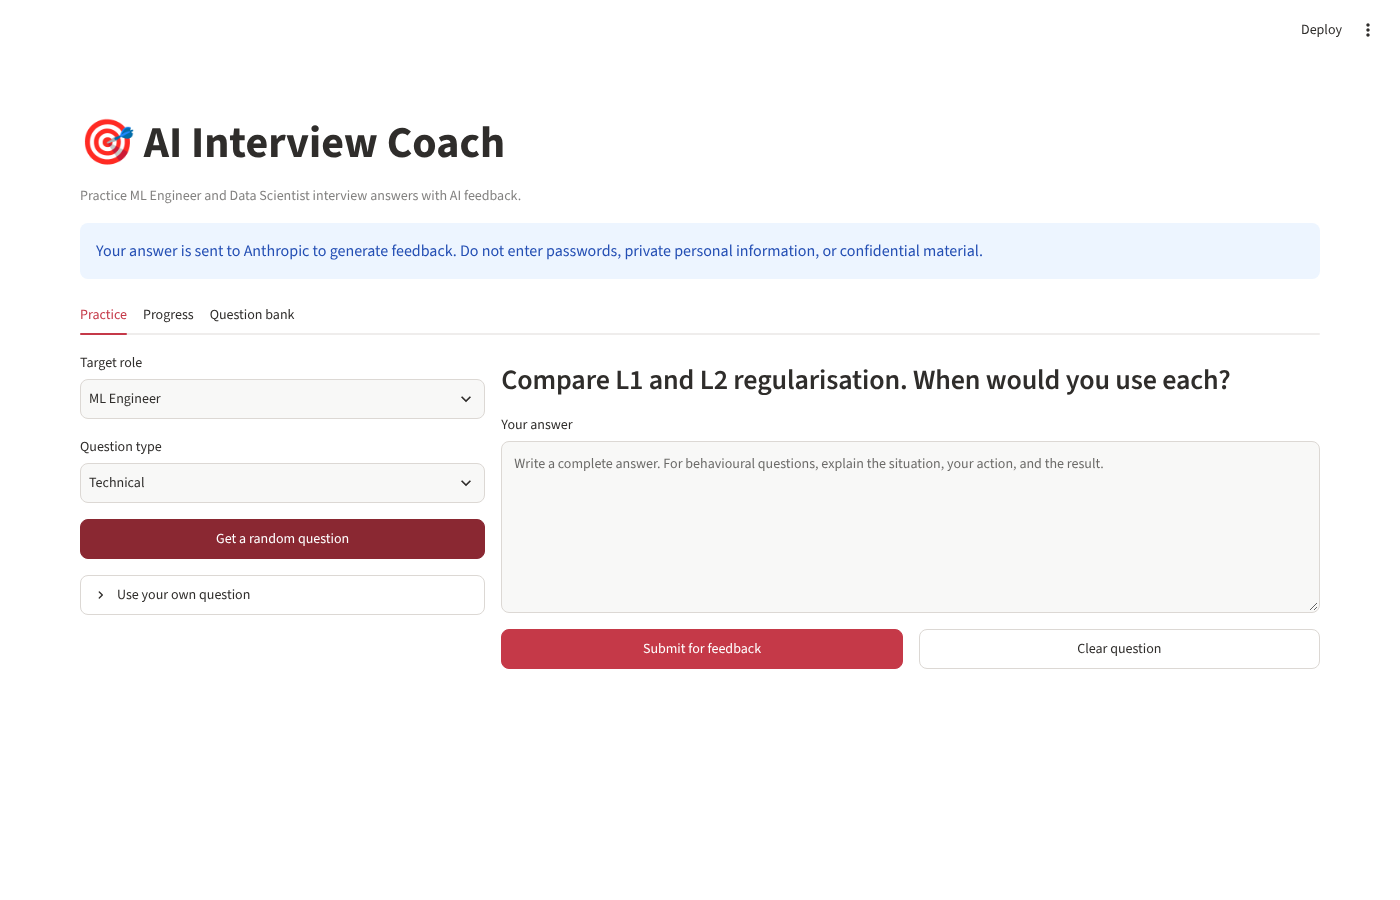
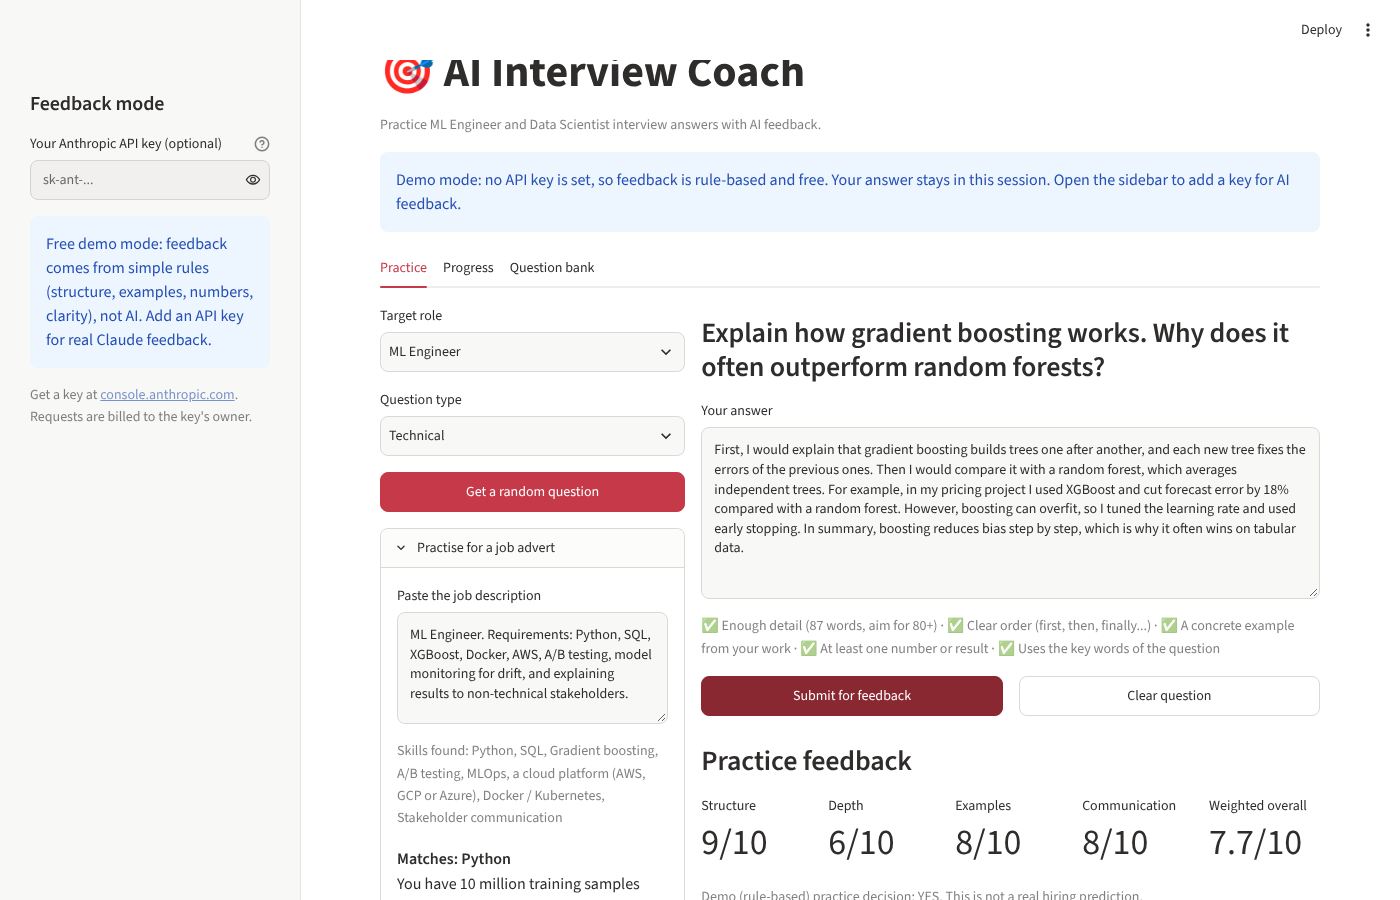
Add job-advert practice, live answer checklist and off-topic detection
- Paste a job description to get one practice question per detected skill
- Live checklist under the answer box (detail, order, example, number, relevance)
- Demo scoring caps answers that do not address the question
- 9 new tests (32 total), updated README and screenshot

Claude-Session: https://claude.ai/code/session_01MLsuxoVZSZP2yCnjYDMN5e

diff --git a/coach/demo.py b/coach/demo.py
@@ -21,6 +21,13 @@ EXAMPLE_WORDS = (
 )
 FILLER_WORDS = ("basically", "like", "kind of", "sort of", "stuff", "things", "very")
 
+STOPWORDS = set("""
+a an and are as at be been but by can could did do does for from had has have how
+i if in into is it its of on or our should so than that the their them then there
+these they this to was we were what when where which while who why will with would
+you your about after before between describe explain tell time give example would
+""".split())
+
 FOLLOW_UPS = {
     "Technical": "How would you check that this works on real production data?",
     "System Design": "What would you change if traffic grew ten times overnight?",
@@ -34,24 +41,59 @@ def _count(text, phrases):
     return sum(text.count(phrase) for phrase in phrases)
 
 
+def _stem(word):
+    return word[:5]
+
+
+def keywords(text):
+    """Meaningful words in a text, cut to a short stem so 'models' matches 'model'."""
+    words = re.findall(r"[a-z][a-z0-9\-]+", text.lower())
+    return {_stem(w) for w in words if len(w) > 2 and w not in STOPWORDS}
+
+
+def relevance(question, answer):
+    """Share of the question's key words that the answer mentions (0 to 1)."""
+    wanted = keywords(question)
+    if len(wanted) < 2:
+        return 1.0
+    return len(wanted & keywords(answer)) / len(wanted)
+
+
+def answer_signals(answer):
+    """Simple, visible signals in an answer. Used for scoring and the live checklist."""
+    text = answer.lower()
+    words = re.findall(r"[a-zA-Z0-9%£$.\-']+", answer)
+    sentences = max(1, len(re.findall(r"[.!?](\s|$)", answer)))
+    return {
+        "word_count": len(words),
+        "unique_words": len(set(w.lower() for w in words)),
+        "sentences": sentences,
+        "numbers": len(re.findall(r"\d", answer)),
+        "structure_hits": _count(text, STRUCTURE_WORDS) + answer.count("\n"),
+        "example_hits": _count(text, EXAMPLE_WORDS),
+        "filler_hits": _count(f" {text} ", tuple(f" {w} " for w in FILLER_WORDS)),
+    }
+
+
 def _clamp(value):
     return int(max(1, min(10, round(value))))
 
 
 def demo_feedback(question, answer, category=None):
     """Return validated feedback produced by simple, explainable rules."""
-    text = answer.lower()
-    words = re.findall(r"[a-zA-Z0-9%£$.\-']+", answer)
-    word_count = len(words)
-    sentences = max(1, len(re.findall(r"[.!?](\s|$)", answer)))
-    numbers = len(re.findall(r"\d", answer))
-    structure_hits = _count(text, STRUCTURE_WORDS) + answer.count("\n")
-    example_hits = _count(text, EXAMPLE_WORDS)
-    filler_hits = _count(f" {text} ", tuple(f" {w} " for w in FILLER_WORDS))
+    sig = answer_signals(answer)
+    word_count, sentences, numbers = sig["word_count"], sig["sentences"], sig["numbers"]
+    structure_hits, example_hits = sig["structure_hits"], sig["example_hits"]
+    filler_hits = sig["filler_hits"]
     avg_sentence = word_count / sentences
+    on_topic = relevance(question, answer)
 
     structure = 3 + min(structure_hits, 5) + (1 if sentences >= 3 else 0)
-    depth = 2 + min(word_count / 30, 5) + min(len(set(w.lower() for w in words)) / 60, 2)
+    depth = 2 + min(word_count / 30, 5) + min(sig["unique_words"] / 60, 2)
+    if on_topic == 0:
+        # A long answer that never touches the question should not score well.
+        depth = min(depth, 3)
+        structure = min(structure, 5)
     examples = 2 + min(example_hits * 2, 5) + min(numbers, 3)
     communication = 8 - min(filler_hits, 4) - (2 if avg_sentence > 35 else 0)
     if word_count < 40:
@@ -79,6 +121,7 @@ def demo_feedback(question, answer, category=None):
     )
 
     weakest = min(scores, key=scores.get)
+    off_topic = on_topic == 0
     gaps = {
         "structure_score": "The answer has no clear order. Use steps such as first, then, finally.",
         "depth_score": "The answer needs more depth. Explain how and why, not only what.",
@@ -105,8 +148,27 @@ def demo_feedback(question, answer, category=None):
     return validate_feedback({
         **scores,
         "what_was_good": what_was_good,
-        "critical_gap": gaps[weakest],
-        "model_answer_hint": hints[weakest],
+        "critical_gap": (
+            "The answer does not seem to address the question. Use the key terms "
+            "from the question and answer it directly first."
+            if off_topic else gaps[weakest]
+        ),
+        "model_answer_hint": (
+            "Start by repeating the core of the question in one sentence, then answer it."
+            if off_topic else hints[weakest]
+        ),
         "follow_up_question": FOLLOW_UPS.get(category, DEFAULT_FOLLOW_UP),
         "hire_decision": decision,
     })
+
+
+def answer_checklist(question, answer):
+    """Quick checks shown under the answer box before it is submitted."""
+    sig = answer_signals(answer)
+    return [
+        (f"Enough detail ({sig['word_count']} words, aim for 80+)", sig["word_count"] >= 80),
+        ("Clear order (first, then, finally...)", sig["structure_hits"] >= 2),
+        ("A concrete example from your work", sig["example_hits"] >= 1),
+        ("At least one number or result", sig["numbers"] >= 1),
+        ("Uses the key words of the question", relevance(question, answer) >= 0.3),
+    ]

diff --git a/coach/questions.py b/coach/questions.py
@@ -52,3 +52,91 @@ QUESTION_BANK = {
         ],
     },
 }
+
+
+# Skills recruiters often list, with the words that show them in a job advert.
+SKILLS = {
+    "Python": ["python"],
+    "SQL": ["sql", "postgres", "bigquery", "snowflake"],
+    "PyTorch": ["pytorch", "torch"],
+    "TensorFlow": ["tensorflow", "keras"],
+    "scikit-learn": ["scikit-learn", "sklearn", "scikit"],
+    "Gradient boosting": ["xgboost", "lightgbm", "catboost", "gradient boosting"],
+    "Deep learning": ["deep learning", "neural network", "cnn", "rnn"],
+    "Transformers / LLMs": ["transformer", "llm", "large language model", "gpt", "rag", "hugging face", "huggingface"],
+    "NLP": ["nlp", "natural language"],
+    "Computer vision": ["computer vision", "image classification", "object detection"],
+    "Statistics": ["statistic", "hypothesis test", "p-value", "bayesian", "regression"],
+    "A/B testing": ["a/b test", "ab test", "experiment", "experimentation"],
+    "Recommender systems": ["recommend", "personalisation", "personalization", "ranking"],
+    "Forecasting": ["forecast", "time series", "time-series", "demand"],
+    "Fraud / risk": ["fraud", "risk", "anomaly"],
+    "MLOps": ["mlops", "mlflow", "kubeflow", "model monitoring", "drift", "retrain"],
+    "a cloud platform (AWS, GCP or Azure)": ["aws", "gcp", "azure", "sagemaker", "vertex"],
+    "Docker / Kubernetes": ["docker", "kubernetes", "k8s", "container"],
+    "Data pipelines": ["airflow", "spark", "etl", "pipeline", "dbt", "kafka"],
+    "Feature engineering": ["feature engineering", "feature store"],
+    "Model explainability": ["shap", "explainab", "interpretab"],
+    "Stakeholder communication": ["stakeholder", "communicat", "non-technical", "business partner"],
+}
+
+# Which built-in questions each skill relates to (matched by words in the question).
+SKILL_QUESTION_WORDS = {
+    "Gradient boosting": ["gradient boosting", "bagging", "boosting"],
+    "Transformers / LLMs": ["attention", "transformer", "rlhf", "language model"],
+    "Statistics": ["p-value", "correlation", "parametric", "cross-validation"],
+    "A/B testing": ["a/b test", "experiment"],
+    "Recommender systems": ["recommendation"],
+    "Fraud / risk": ["fraud", "imbalanced"],
+    "MLOps": ["retrains", "accuracy drops", "deploy"],
+    "Feature engineering": ["feature store", "dimensionality", "missing values"],
+    "Model explainability": ["shap"],
+    "Stakeholder communication": ["non-technical", "stakeholder", "business leaders"],
+    "Data pipelines": ["pipeline", "10 million"],
+    "Python": ["limited ram", "data leakage"],
+    "scikit-learn": ["regularisation", "cross-validation", "precision vs recall"],
+}
+
+MAX_JOB_TEXT = 20_000
+
+
+def skills_in_job_advert(text):
+    """Return the skills mentioned in a job advert, in a stable order."""
+    lowered = text.lower()[:MAX_JOB_TEXT]
+    return [skill for skill, terms in SKILLS.items() if any(t in lowered for t in terms)]
+
+
+def _all_questions():
+    for role, categories in QUESTION_BANK.items():
+        for category, questions in categories.items():
+            for question in questions:
+                yield question, role, category
+
+
+def questions_for_job(text, limit=8):
+    """Pick practice questions that match a pasted job advert.
+
+    Returns (question, role, category, reason) tuples: one question per skill
+    found. A built-in question is used when one fits (words listed first win);
+    otherwise the skill gets a question about the candidate's own project.
+    """
+    picked, seen = [], set()
+    for skill in skills_in_job_advert(text):
+        match = None
+        for word in SKILL_QUESTION_WORDS.get(skill, []):
+            match = next(
+                (item for item in _all_questions()
+                 if word in item[0].lower() and item[0] not in seen),
+                None,
+            )
+            if match:
+                break
+        if match is None:
+            match = (
+                f"Tell me about a project where you used {skill}. "
+                "What problem did it solve and what was the result?",
+                "ML Engineer", "Behavioural",
+            )
+        seen.add(match[0])
+        picked.append((*match, f"Matches: {skill}"))
+    return picked[:limit]

diff --git a/app.py b/app.py
@@ -3,9 +3,9 @@ import random
 
 import streamlit as st
 
-from coach.demo import demo_feedback
+from coach.demo import answer_checklist, demo_feedback
 from coach.feedback import CoachError, evaluate_answer
-from coach.questions import QUESTION_BANK
+from coach.questions import QUESTION_BANK, questions_for_job, skills_in_job_advert
 from coach.report import history_to_csv
 
 st.set_page_config(page_title="AI Interview Coach", page_icon="🎯", layout="wide")
@@ -120,6 +120,27 @@ with practice_tab:
         if st.button("Get a random question", type="primary", use_container_width=True):
             set_question(random.choice(QUESTION_BANK[role][category]), role, category=category)
 
+        with st.expander("Practise for a job advert"):
+            job_text = st.text_area(
+                "Paste the job description",
+                key="job_text",
+                height=140,
+                placeholder="Paste the requirements section of a real job advert...",
+            )
+            if job_text.strip():
+                skills = skills_in_job_advert(job_text)
+                if not skills:
+                    st.caption("No familiar ML or data skills found. Try pasting the requirements section.")
+                else:
+                    st.caption("Skills found: " + ", ".join(skills))
+                    for index, (question, q_role, q_category, reason) in enumerate(
+                        questions_for_job(job_text)
+                    ):
+                        st.markdown(f"**{reason}**  \n{question}")
+                        if st.button("Practise this", key=f"job_q_{index}"):
+                            set_question(question, q_role, category=q_category)
+                            st.rerun()
+
         with st.expander("Use your own question"):
             custom = st.text_area(
                 "Paste a question from a real job advert or past interview",
@@ -146,6 +167,11 @@ with practice_tab:
                     "situation, your action, and the result."
                 ),
             )
+            if answer.strip():
+                checks = answer_checklist(st.session_state.current_question, answer)
+                st.caption(
+                    "  ·  ".join(f"{'✅' if ok else '⬜'} {label}" for label, ok in checks)
+                )
             submit_column, new_column = st.columns(2)
             submit = submit_column.button(
                 "Submit for feedback", type="primary", use_container_width=True

diff --git a/tests/test_demo.py b/tests/test_demo.py
@@ -50,3 +50,54 @@ def test_app_gives_demo_feedback_without_a_key(monkeypatch):
     assert not app.error
     assert app.session_state.latest_feedback["mode"] == "demo"
     assert len(app.session_state.history) == 1
+
+
+def test_off_topic_answer_is_capped():
+    question = "How do you handle class imbalance when evaluating a fraud model?"
+    on_topic = demo_feedback(question, STRONG)
+    off_topic = demo_feedback("What is RLHF and why does it matter for LLMs?", STRONG)
+    assert off_topic["depth_score"] <= 3
+    assert "does not seem to address" in off_topic["critical_gap"]
+    assert on_topic["overall_score"] > off_topic["overall_score"]
+
+
+def test_relevance_matches_word_forms():
+    from coach.demo import relevance
+    assert relevance("Explain overfitting in models", "My model was overfitting, so I...") == 1.0
+
+
+JOB = (
+    "ML Engineer. Requirements: Python, SQL, XGBoost, Docker, AWS, A/B testing, "
+    "model monitoring for drift, and explaining results to non-technical stakeholders."
+)
+
+
+def test_job_advert_skills_and_questions():
+    from coach.questions import questions_for_job, skills_in_job_advert
+    skills = skills_in_job_advert(JOB)
+    assert {"Python", "SQL", "Gradient boosting", "A/B testing"} <= set(skills)
+    picks = questions_for_job(JOB)
+    questions = [p[0] for p in picks]
+    assert len(questions) == len(set(questions))  # no duplicates
+    assert any("gradient boosting" in q.lower() for q in questions)
+    assert any("SQL" in q for q in questions)  # skill without a bank question
+    assert skills_in_job_advert("We sell shoes and need a cashier.") == []
+
+
+def test_app_job_advert_flow():
+    app = AppTest.from_file(
+        str(Path(__file__).resolve().parents[1] / "app.py"), default_timeout=30
+    ).run()
+    app.text_area(key="job_text").input(JOB).run()
+    next(b for b in app.button if b.key == "job_q_0").click().run()
+    assert not app.exception
+    assert app.session_state.current_question
+
+
+def test_checklist_reflects_answer_quality():
+    from coach.demo import answer_checklist
+    question = "How do you handle class imbalance when evaluating a fraud model?"
+    strong = dict((label.split(" (")[0], ok) for label, ok in answer_checklist(question, STRONG))
+    weak = answer_checklist(question, WEAK)
+    assert all(strong.values())
+    assert sum(ok for _, ok in weak) <= 1

diff --git a/README.md b/README.md
@@ -25,6 +25,14 @@ follow-up question a real interviewer would ask next.
   Claude feedback. The key lives only in that browser session and is billed to
   its owner, so a public demo never spends the author's credit
 
+- **Practise for a real job advert**: paste a job description, the app finds
+  the skills it asks for (Python, SQL, XGBoost, A/B testing, MLOps...) and
+  picks one practice question per skill
+- **Live answer checklist**: before you submit, ticks show whether the answer
+  has enough detail, a clear order, a concrete example, a number and the key
+  words of the question
+- **Off-topic detection**: in demo mode, an answer that ignores the question
+  cannot score well just by being long
 - 34 questions across Technical, System Design, Case Study and Behavioural
   categories, or paste your own question from a real job advert
 - Rubric scores for structure, technical depth, examples and communication
